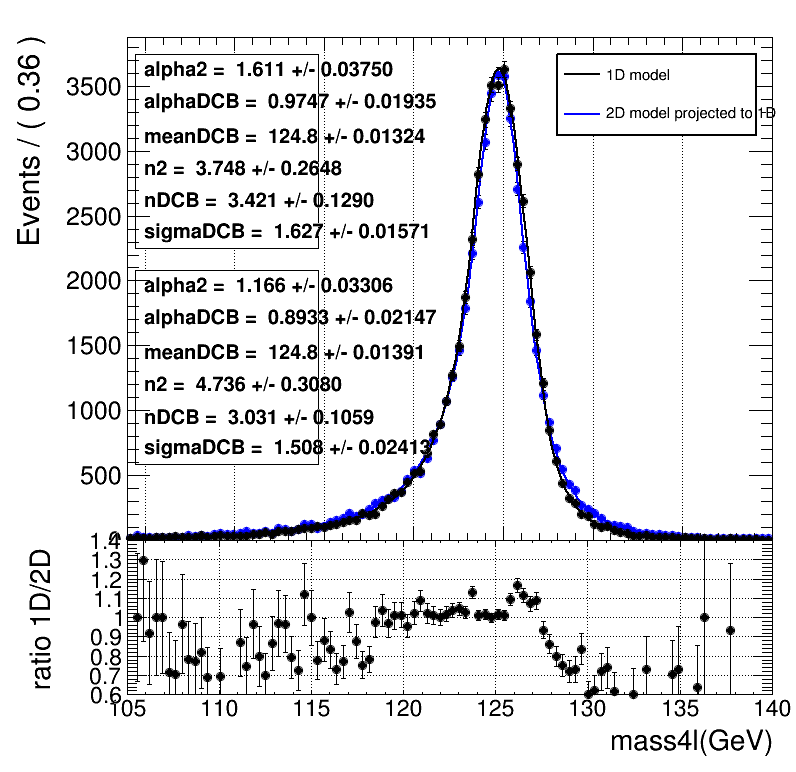
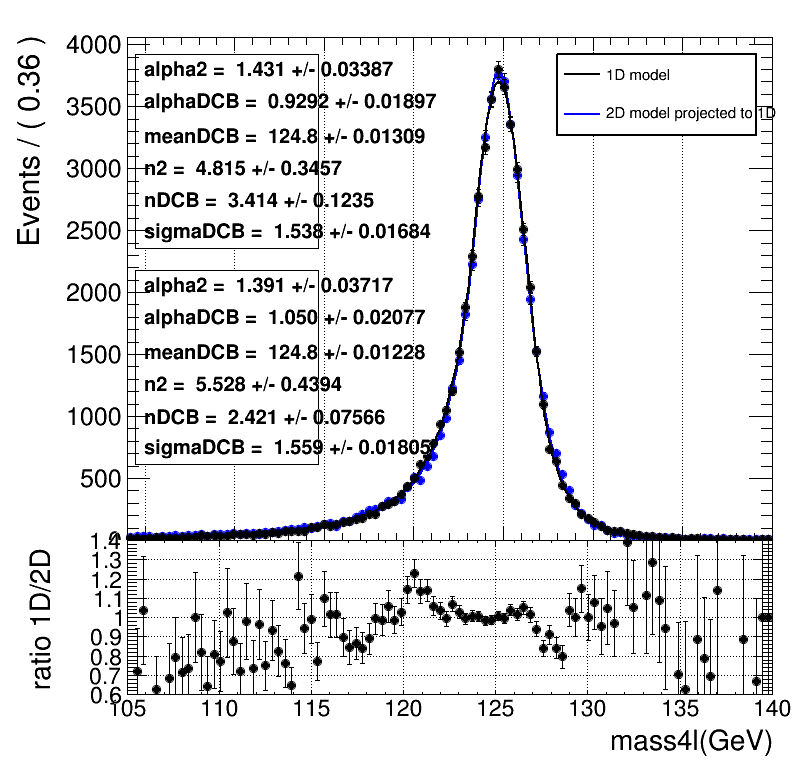
working version for 2016/12/16 HZZ meeting

diff --git a/makeSummaryPlots/plotPara_vs_sigma.py b/makeSummaryPlots/plotPara_vs_sigma.py
@@ -23,6 +23,9 @@ def makePlot(fileName, index, paraName,m4lType):
         dummy.SetMinimum(0)
     if 'alpha' in paraName:
         yMax = 3
+    if 'mean' in paraName:
+        yMax = 126
+        dummy.SetMinimum(123.5)
     dummy.SetMaximum(yMax)
     dummy.SetLineColor(0)
     dummy.SetMarkerColor(0)
@@ -36,26 +39,41 @@ def makePlot(fileName, index, paraName,m4lType):
     gr.Fit('pol1')
     gr.Draw('p same')
 
-    c.SaveAs('/home/mhl/public_html/2016/20161207_mass/scratch_fitmassH/' + paraName + '_' + m4lType + '.png')
+    c.SaveAs('/home/mhl/public_html/2016/20161207_electronCorr/tailParas/' + paraName + '_' + m4lType + '.png')
 
 makePlot("sigma_m2e2mu_reco.txtpara.txt", 2, 'alphaL', '2e2mu_reco')
 makePlot("sigma_m2e2mu_reco.txtpara.txt", 3, 'nL', '2e2mu_reco')
 makePlot("sigma_m2e2mu_reco.txtpara.txt", 4, 'alphaR', '2e2mu_reco')
 makePlot("sigma_m2e2mu_reco.txtpara.txt", 5, 'nR', '2e2mu_reco')
+makePlot("sigma_m2e2mu_reco.txtpara.txt", 6, 'meanDCB', '2e2mu_reco')
 
 makePlot("sigma_m2e2mu_refit.txtpara.txt", 2, 'alphaL', '2e2mu_refit')
 makePlot("sigma_m2e2mu_refit.txtpara.txt", 3, 'nL', '2e2mu_refit')
 makePlot("sigma_m2e2mu_refit.txtpara.txt", 4, 'alphaR', '2e2mu_refit')
 makePlot("sigma_m2e2mu_refit.txtpara.txt", 5, 'nR', '2e2mu_refit')
+makePlot("sigma_m2e2mu_refit.txtpara.txt", 6, 'meanDCB', '2e2mu_refit')
 
-#makePlot("sigma_m4e_reco.txtpara.txt", 2, 'alphaL', '4e_reco')
-#makePlot("sigma_m4e_reco.txtpara.txt", 3, 'nL', '4e_reco')
-#makePlot("sigma_m4e_reco.txtpara.txt", 4, 'alphaR', '4e_reco')
-#makePlot("sigma_m4e_reco.txtpara.txt", 5, 'nR', '4e_reco')
+makePlot("sigma_m4e_reco.txtpara.txt", 2, 'alphaL', '4e_reco')
+makePlot("sigma_m4e_reco.txtpara.txt", 3, 'nL', '4e_reco')
+makePlot("sigma_m4e_reco.txtpara.txt", 4, 'alphaR', '4e_reco')
+makePlot("sigma_m4e_reco.txtpara.txt", 5, 'nR', '4e_reco')
+makePlot("sigma_m4e_reco.txtpara.txt", 6, 'meanDCB', '4e_reco')
 
-#makePlot("sigma_m4e_refit.txtpara.txt", 2, 'alphaL', '4e_refit')
-#makePlot("sigma_m4e_refit.txtpara.txt", 3, 'nL', '4e_refit')
-#makePlot("sigma_m4e_refit.txtpara.txt", 4, 'alphaR', '4e_refit')
-#makePlot("sigma_m4e_refit.txtpara.txt", 5, 'nR', '4e_refit')
+makePlot("sigma_m4e_refit.txtpara.txt", 2, 'alphaL', '4e_refit')
+makePlot("sigma_m4e_refit.txtpara.txt", 3, 'nL', '4e_refit')
+makePlot("sigma_m4e_refit.txtpara.txt", 4, 'alphaR', '4e_refit')
+makePlot("sigma_m4e_refit.txtpara.txt", 5, 'nR', '4e_refit')
+makePlot("sigma_m4e_refit.txtpara.txt", 6, 'meanDCB', '4e_refit')
 
+makePlot("sigma_m4mu_reco.txtpara.txt", 2, 'alphaL', '4mu_reco')
+makePlot("sigma_m4mu_reco.txtpara.txt", 3, 'nL', '4mu_reco')
+makePlot("sigma_m4mu_reco.txtpara.txt", 4, 'alphaR', '4mu_reco')
+makePlot("sigma_m4mu_reco.txtpara.txt", 5, 'nR', '4mu_reco')
+makePlot("sigma_m4mu_reco.txtpara.txt", 6, 'meanDCB', '4mu_reco')
+
+makePlot("sigma_m4mu_refit.txtpara.txt", 2, 'alphaL', '4mu_refit')
+makePlot("sigma_m4mu_refit.txtpara.txt", 3, 'nL', '4mu_refit')
+makePlot("sigma_m4mu_refit.txtpara.txt", 4, 'alphaR', '4mu_refit')
+makePlot("sigma_m4mu_refit.txtpara.txt", 5, 'nR', '4mu_refit')
+makePlot("sigma_m4mu_refit.txtpara.txt", 6, 'meanDCB', '4mu_refit')
 

diff --git a/HClosure/makePlot_1D_fit.py b/HClosure/makePlot_1D_fit.py
@@ -67,9 +67,19 @@ def MakeFitPlotFromTree(tree, paraConfig, fitResult):
 #    w.factory('BreitWigner::bw(x[' + str(xmin) + ',' + str(xmax) + '],meanBW[91.2, 90, 92],sigmaBW[2.4,2,3])')
 
     w.factory('DoubleCB::doubleCB(x[' + str(xmin) + ',' + str(xmax) + '], \
-                                 meanDCB[125,124,126], sigmaDCB[0.5,0.1,10], \
-                                 alphaDCB[1,0,50], nDCB[1,0,50], alpha2[1,0,50], n2[1,0,50])')
-#                                  alphaDCB[1,0,10], nDCB['+str(doubleCB_n1)+'], alpha2[1,0,10], n2['+str(doubleCB_n2)+'])')
+                                 meanDCB[125,120,130], sigmaDCB[1,0,10], \
+                                 alphaDCB[0.9876], nDCB[4.394], alpha2[2.022], n2[3.256])')
+
+# 4 point of 4e refit                                 alphaDCB[1.112], nDCB[3.984], alpha2[2.338], n2[2.15])')
+# 3 point of 4e refit                                 alphaDCB[0.9876], nDCB[4.394], alpha2[2.022], n2[3.256])')
+# 3 point of 4e reco                                 alphaDCB[0.95], nDCB[4.23], alpha2[2.189], n2[3.04])')
+# 2 point of 4mu reco                                 alphaDCB[1.315], nDCB[1.834], alpha2[2.53], n2[1.288])')
+# 2 point of 2e2mu reco inclusive                                 alphaDCB[1.187], nDCB[2.369], alpha2[2.577], n2[1.258])')
+# 2 point of 2e2mu refit inclusive                                alphaDCB[1.237], nDCB[2.482], alpha2[2.363], n2[1.873])')
+
+
+#                                 alphaDCB['+str(doubleCB_a1)+'], nDCB['+str(doubleCB_n1)+'], alpha2['+str(doubleCB_a2)+'], n2['+str(doubleCB_n2)+'])')
+#                                 alphaDCB[1,0,10], nDCB['+str(doubleCB_n1)+'], alpha2[1,0,10], n2['+str(doubleCB_n2)+'])')
 #                                  alphaDCB[1,0,50], nDCB['+str(doubleCB_n1)+'], alpha2[1,0,50], n2['+str(doubleCB_n2)+'])')
 #                                  alphaDCB['+str(doubleCB_a1)+'], nDCB['+str(doubleCB_n1)+'], alpha2['+str(doubleCB_a2)+'], n2['+str(doubleCB_n2)+'])')
 #                                  alphaDCB[1,0,50], nDCB[1,0,50], alpha2[1,0,50], n2[1,0,50])')
@@ -152,5 +162,6 @@ def MakeFitPlotFromTree(tree, paraConfig, fitResult):
     fitResult['alpha2_err'] = w.var('alpha2').getError()
     fitResult['n2'] = w.var('n2').getVal()
     fitResult['n2_err'] = w.var('n2').getError()
-    
-    
+    fitResult['meanDCB'] = w.var('meanDCB').getVal()
+    fitResult['meanDCB_err'] = w.var('meanDCB').getError()
+

diff --git a/HClosure/doAllClosure_H.py b/HClosure/doAllClosure_H.py
@@ -46,19 +46,21 @@ def doAllClosure(fs, filename, plotpath, doubleCB_tail, doREFIT):
         call(cmd, shell=True)
 
 filename = 'test.root'
-plotpath = '/home/mhl/public_html/2016/20161207_mass/scratch_fitmassH/'
+plotpath = '/home/mhl/public_html/2016/20161213_mass/scratch/'
 
-doubleCB_tail_4mu_reco = '1.2898 2.0380 1.8323 3.1842' # a1,n1,a2,n2
-doubleCB_tail_4mu_refit = '1.3321 1.8954 1.9023 3.0074' 
-doubleCB_tail_4e_reco = '0.8323 5.5658 1.3757 6.9056' # a1,n1,a2,n2
-doubleCB_tail_4e_refit = '0.85705 4.5382 1.4509 6.01'
-doubleCB_tail_2e2mu_reco = '0.90829 3.6011 1.3723 5.2865'
-doubleCB_tail_2e2mu_refit = '0.99254 2.9679 1.4789 4.7435'
+doubleCB_tail_4mu_reco = '1.2547 2.1116 1.8509 3.0920' # a1,n1,a2,n2
+doubleCB_tail_4mu_refit = '1.2741 2.02 1.99 2.71' 
+doubleCB_tail_4e_reco = '0.8629 5.3039 1.4398 6.1962' # a1,n1,a2,n2
+doubleCB_tail_4e_refit = '0.85930 4.4827 1.4451 6.1654'
+doubleCB_tail_2e2mu_reco = '0.9515 3.4081 1.4387 4.8701'
+doubleCB_tail_2e2mu_refit = '0.99078 2.9022 1.4538 4.8895'
+
+call('rm ../makeSummaryPlots/*txtpara*txt', shell=True)
 
 #doAllClosure('4mu', filename, plotpath, doubleCB_tail_4mu_reco, False)
 #doAllClosure('4mu', filename, plotpath, doubleCB_tail_4mu_refit, True)
-doAllClosure('4e', filename, plotpath, doubleCB_tail_4e_reco, False)
+#doAllClosure('4e', filename, plotpath, doubleCB_tail_4e_reco, False)
 doAllClosure('4e', filename, plotpath, doubleCB_tail_4e_refit, True)
-doAllClosure('2e2mu', filename, plotpath, doubleCB_tail_2e2mu_reco, False)
-doAllClosure('2e2mu', filename, plotpath, doubleCB_tail_2e2mu_refit, True)
+#doAllClosure('2e2mu', filename, plotpath, doubleCB_tail_2e2mu_reco, False)
+#doAllClosure('2e2mu', filename, plotpath, doubleCB_tail_2e2mu_refit, True)
 

diff --git a/HClosure/doClosure_m4l.py b/HClosure/doClosure_m4l.py
@@ -128,6 +128,6 @@ with open(args.outtxtName,'a') as myfile:
      myfile.write(sigma_m4l[0] + ' ' + sigma_m4l[1] + ' ' + sigma_m4l[2] + ' ' + sigma_m4l[3] + ' ' + sigma_m4l[4] + '\n')
 with open(args.outtxtName+'para.txt','a') as myfile:
    if args.max_m4lErr < 1:
-     myfile.write(str(args.min_m4lErr) + ' ' + str(args.max_m4lErr) + ' ' + str(fitResult['alphaDCB']) + ' ' + str(fitResult['nDCB']) + ' ' + str(fitResult['alpha2']) + ' ' + str(fitResult['n2']) + '\n')
-     myfile.write(str(args.min_m4lErr) + ' ' + str(args.max_m4lErr) + ' ' + str(fitResult['alphaDCB_err']) + ' ' + str(fitResult['nDCB_err']) + ' ' + str(fitResult['alpha2_err']) + ' ' + str(fitResult['n2_err']) + '\n')
+     myfile.write(str(args.min_m4lErr) + ' ' + str(args.max_m4lErr) + ' ' + str(fitResult['alphaDCB']) + ' ' + str(fitResult['nDCB']) + ' ' + str(fitResult['alpha2']) + ' ' + str(fitResult['n2']) + ' ' + str(fitResult['meanDCB']) +'\n')
+     myfile.write(str(args.min_m4lErr) + ' ' + str(args.max_m4lErr) + ' ' + str(fitResult['alphaDCB_err']) + ' ' + str(fitResult['nDCB_err']) + ' ' + str(fitResult['alpha2_err']) + ' ' + str(fitResult['n2_err']) + ' ' + str(fitResult['meanDCB_err']) +'\n')
 

diff --git a/ZClosure/MySelector.C b/ZClosure/MySelector.C
@@ -98,18 +98,22 @@ void MySelector::Begin(TTree * /*tree*/)
 
    TString option = GetOption();
 
-   fLUT_1_ = TFile::Open("LUT_"+fs_+"_1.root");
-   LUT_1_ = (TH2F*) fLUT_1_->Get(fs_);
+   if (fs_ == "2e") {
 
-   fLUT_2_ = TFile::Open("LUT_"+fs_+"_2.root");
-   LUT_2_ = (TH2F*) fLUT_2_->Get(fs_);
+      fLUT_1_ = TFile::Open("LUT_"+fs_+"_1.root");
+      LUT_1_ = (TH2F*) fLUT_1_->Get(fs_);
 
-   fLUT_3_ = TFile::Open("LUT_"+fs_+"_3.root");
-   LUT_3_ = (TH2F*) fLUT_3_->Get(fs_);
+      fLUT_2_ = TFile::Open("LUT_"+fs_+"_2.root");
+      LUT_2_ = (TH2F*) fLUT_2_->Get(fs_);
 
-   LUTs_[0] = LUT_1_;
-   LUTs_[1] = LUT_2_;
-   LUTs_[2] = LUT_3_;
+      fLUT_3_ = TFile::Open("LUT_"+fs_+"_3.root");
+      LUT_3_ = (TH2F*) fLUT_3_->Get(fs_);
+
+      LUTs_[0] = LUT_1_;
+      LUTs_[1] = LUT_2_;
+      LUTs_[2] = LUT_3_;
+
+      }
 
 }
 
@@ -159,14 +163,14 @@ Bool_t MySelector::Process(Long64_t entry)
 
    double pterr1_corr = *pterr1; double pterr2_corr = *pterr2;
 
-/*
+
    if (fs_ == "2mu") {
 
       pterr1_corr *= pTCorr(*pT1, *eta1, fs_, tag_);
       pterr2_corr *= pTCorr(*pT2, *eta2, fs_, tag_);
 
       }
-*/
+
 
    if (fs_ == "2e") {
 

diff --git a/ZClosure/doAllClosure_mZ.py b/ZClosure/doAllClosure_mZ.py
@@ -47,7 +47,7 @@ def doAllClosure(fs, plotPath, Z_width, plotBinInfo, singleCB_tail, pTErrCorrect
 
 #plotBinInfo = '100 80 100'
 plotBinInfo = '300 60 120'
-plotpath = '/home/mhl/public_html/2016/20161207_electronCorr/fitmassZ/'
+plotpath = '/home/mhl/public_html/2016/20161213_mass/scratch/'
 
 singleCB_tail_mu = '1.583 1.086' #first is alpha, second is n of singleCB
 singleCB_tail_e = '1.1443 2.5964' #first is alpha, second is n of singleCB
@@ -59,7 +59,7 @@ pTErrCorrections_e = '1.245 1.140 1.077 1.178'
 #ZWidth = 2.37
 ZWidth = 2.44
 
-#doAllClosure('2mu', plotpath, ZWidth, plotBinInfo, singleCB_tail_mu, pTErrCorrections_mu)
+doAllClosure('2mu', plotpath, ZWidth, plotBinInfo, singleCB_tail_mu, pTErrCorrections_mu)
 doAllClosure('2e', plotpath, ZWidth, plotBinInfo, singleCB_tail_e, pTErrCorrections_e)
 #doAllClosure('2e', plotpath, ZWidth, plotBinInfo, doubleCB_tail_e, pTErrCorrections_e)
 

diff --git a/compare1D2DModel/compare_1D_2D_mass4l.py b/compare1D2DModel/compare_1D_2D_mass4l.py
@@ -26,8 +26,8 @@ CMS_zz4l_mass = RooRealVar('CMS_zz4l_mass','CMS_zz4l_mass',104,140)
 CMS_zz4l_massErr = RooRealVar('CMS_zz4l_massErr','CMS_zz4l_massErr',0,0.1)
 #w = RooWorkspace("w")
 
-for m4lType in ['refit']:#, 'reco']:
-    for fs in ['2e2mu','4e']:#, '4mu']:
+for m4lType in ['refit', 'reco']:
+    for fs in ['4e','2e2mu', '4mu']:
 
 #        path = '/raid/raid9/mhl/HZZ4L_Run2/HZZ4L/PereventMassErrCorr_2016ICHEP/Mass_ICHEP2016/CreateDatacards_Moriond2016_JES_v0_dev_ZJetsOn_10fb_1_ggHOnly_relativeError/'
 #        path = '/raid/raid9/mhl/HZZ4L_Run2/HZZ4L/PereventMassErrCorr_2016ICHEP/getCorrection_ICHEP2016/toyStudy_test/STEP4_getMass_asimov_runOnIHEPA/'
